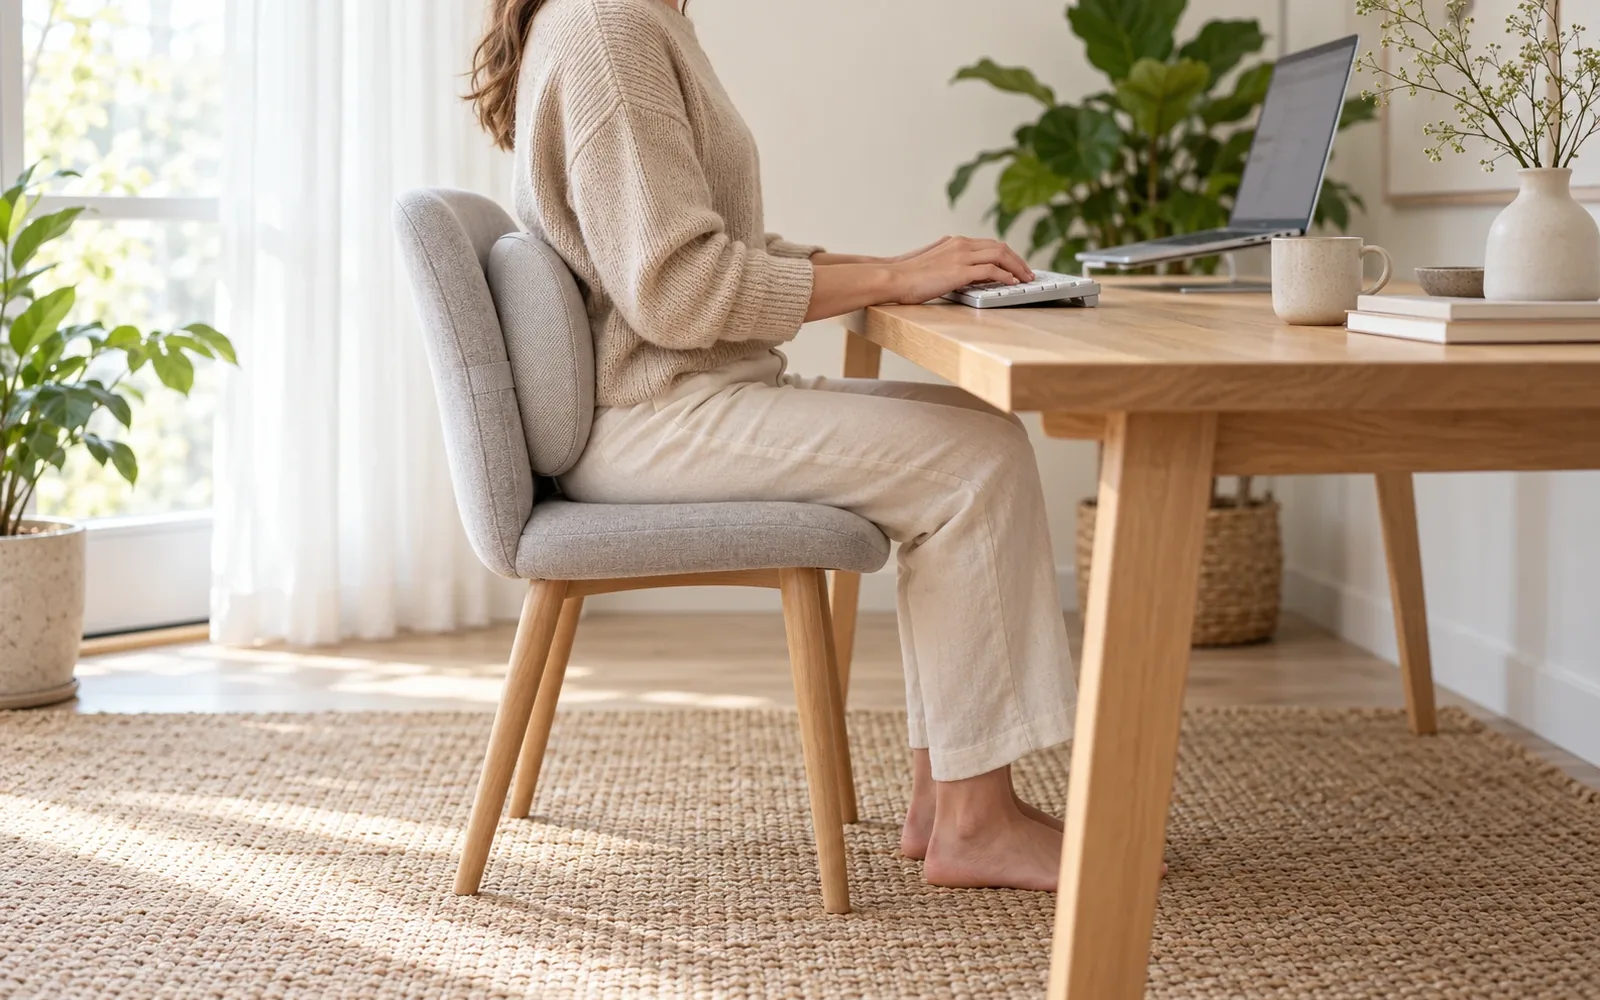
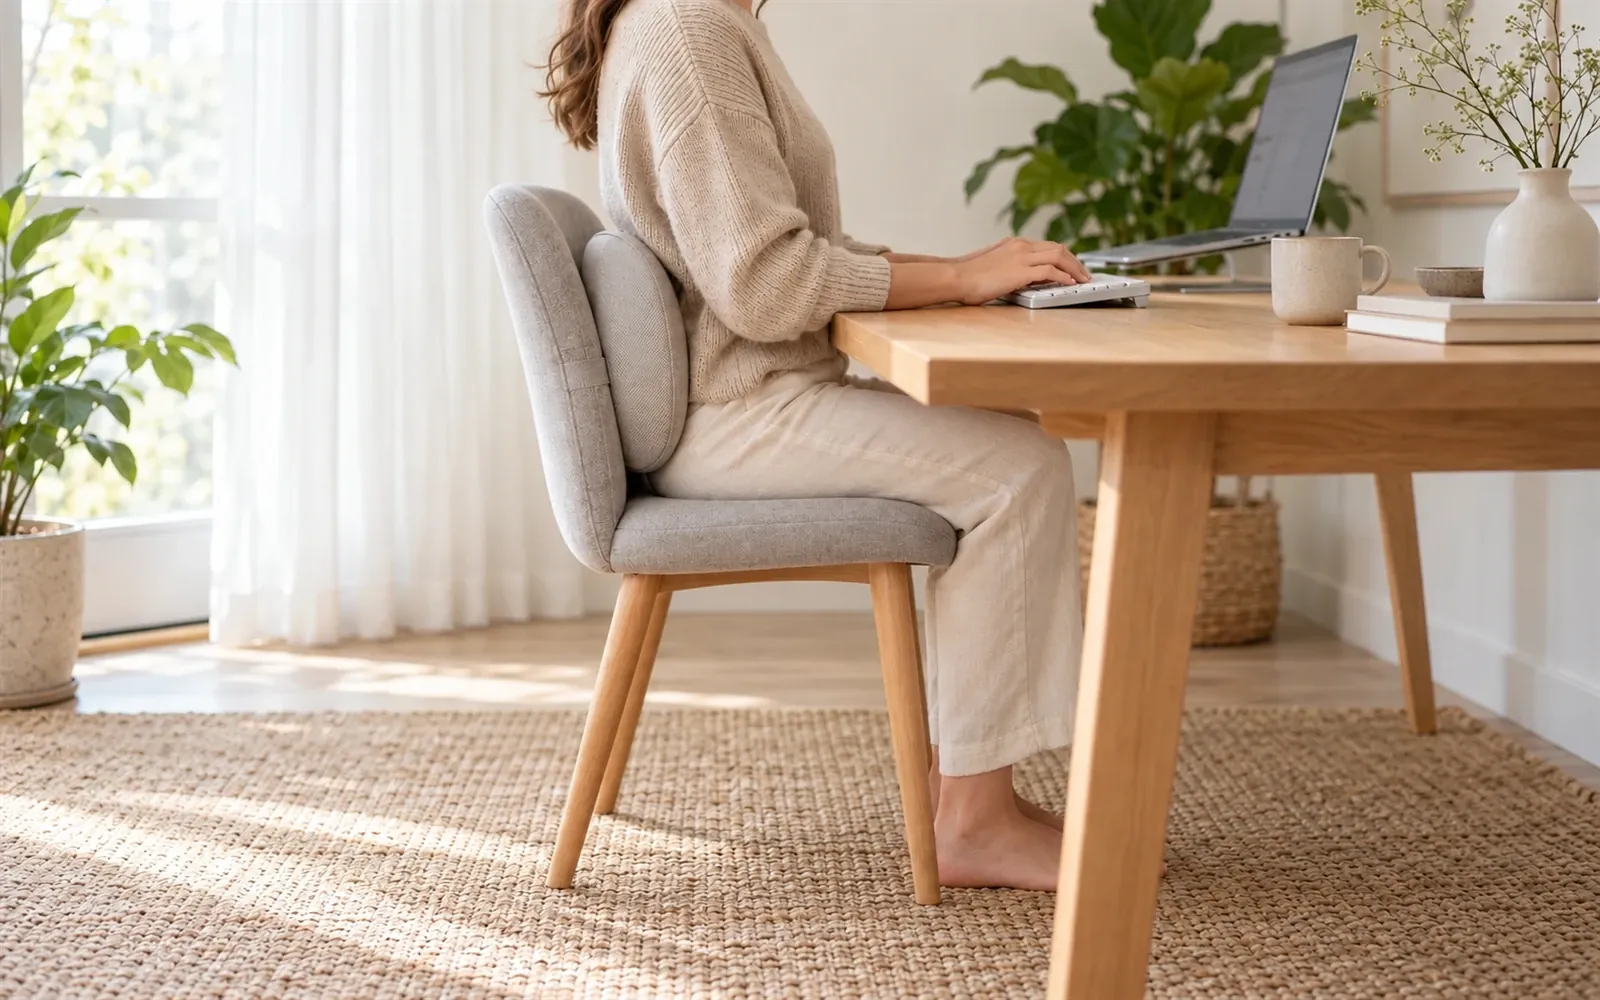
Метод Симкина: новое фото на первом экране — придвинута к столу, предплечья с опорой
Положение рук относительно корпуса прежнее, девушка вместе с клавиатурой
придвинута вплотную к столу; поясничная поддержка, ноги рядом.

Claude-Session: https://claude.ai/code/session_01FUBxhgu7pesML4kVVuvkDz

diff --git a/design/method.html b/design/method.html
@@ -91,8 +91,10 @@
 <!-- Слева название метода, подзаголовок и два абзаца; под ними — базовый
      принцип эргономики белой плашкой с чёрточкой (как на странице курса).
      Справа фото человека за рабочим местом: эргономика начинается с человека.
-     Кадр method-hero (19.10.2026) — поза по методу: опора под поясницу, ноги
-     рядом, корпус у стола, отдельная клавиатура, ноутбук на подставке.
+     Кадр method-hero (20.10.2026) — поза по методу: опора под поясницу, ноги
+     рядом, корпус вплотную к столу, предплечья с опорой на столешницу,
+     положение рук относительно корпуса прежнее, отдельная клавиатура,
+     ноутбук на подставке.
      posture.jpg остаётся обложкой статьи на главной. -->
 <section class="dcohero" id="hero">
   <div class="dwrap">
@@ -107,8 +109,8 @@
       </div>
       <div class="dcohero__media" data-rv style="--d:.06s">
         <picture>
-          <source srcset="assets/photo/method-hero.webp" type="image/webp">
-          <img src="assets/photo/method-hero.jpg" alt="Женщина работает за столом: спина с опорой под поясницу, ноги рядом на полу, отдельная клавиатура, ноутбук на подставке" width="1600" height="1000" fetchpriority="high">
+          <source srcset="assets/photo/method-hero.webp?v=2" type="image/webp">
+          <img src="assets/photo/method-hero.jpg?v=2" alt="Женщина работает за столом: спина с опорой под поясницу, корпус придвинут к столу, предплечья лежат на столешнице, ноги рядом на полу, отдельная клавиатура, ноутбук на подставке" width="1600" height="1000" fetchpriority="high">
         </picture>
       </div>
     </div>
